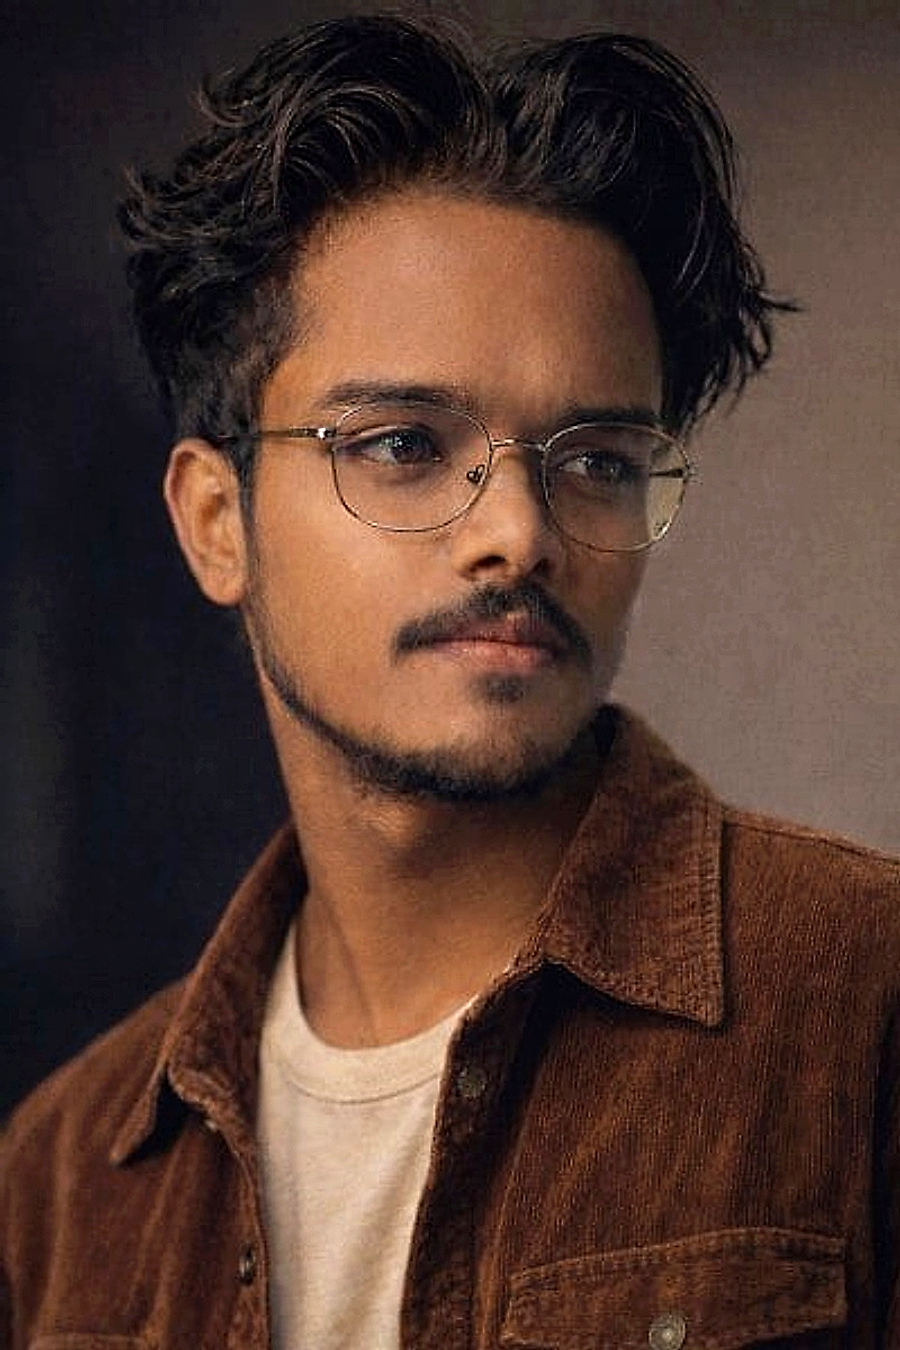
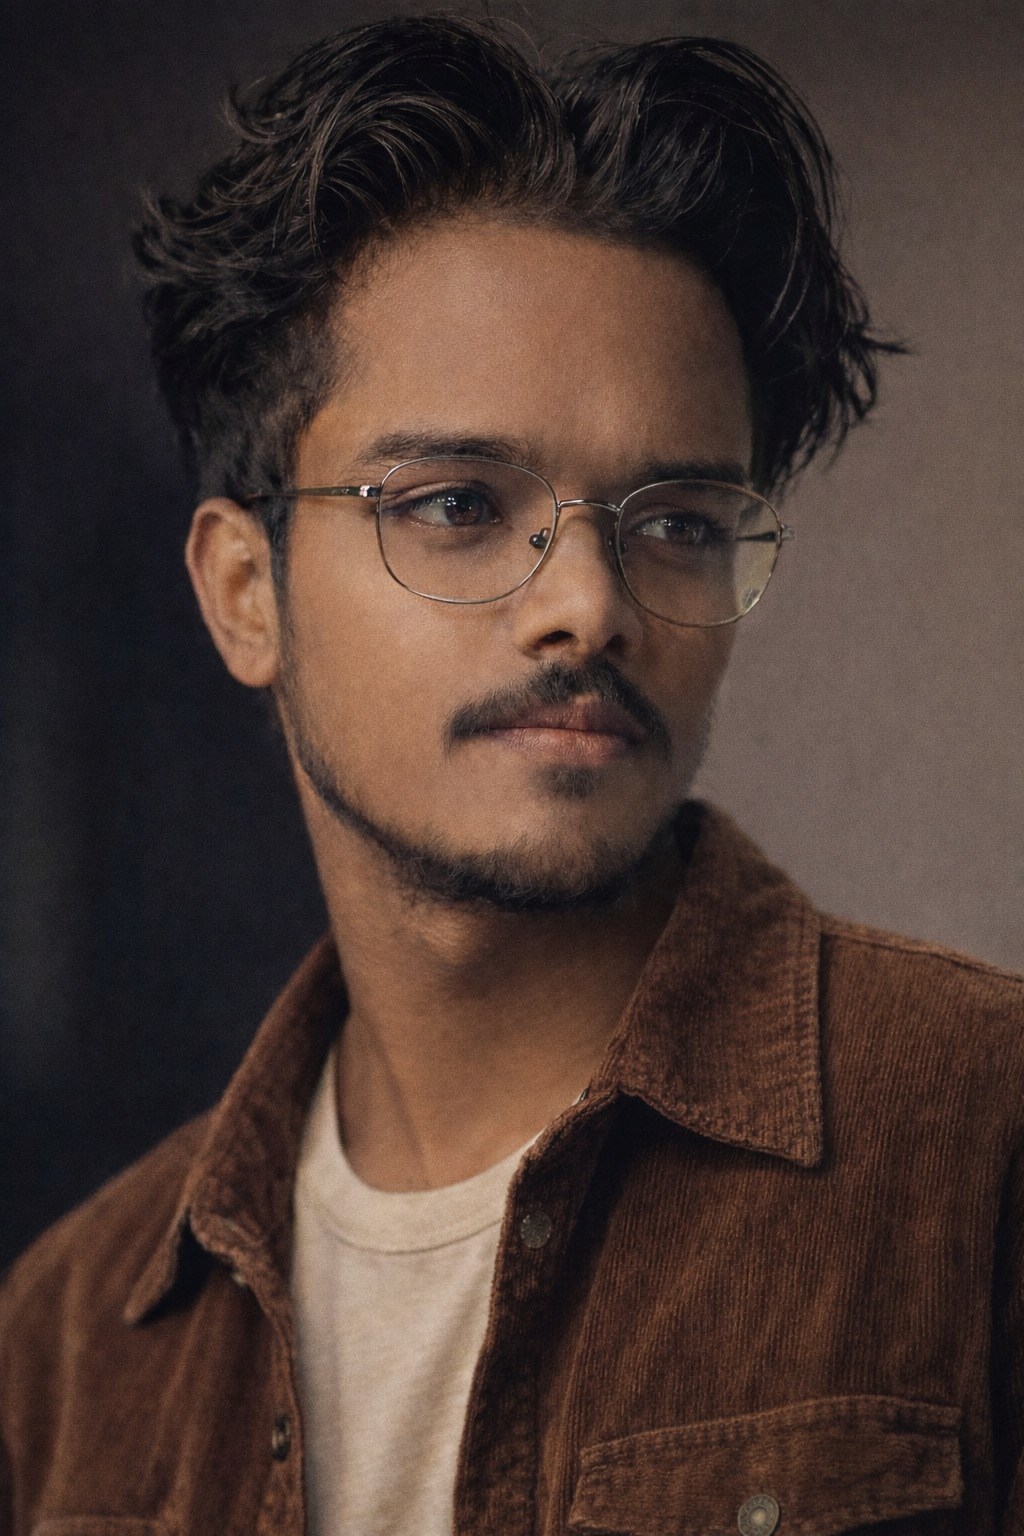
refactor: update 3D lanyard component rendering and add localized index page

diff --git a/src/components/Lanyard.jsx b/src/components/Lanyard.jsx
@@ -27,7 +27,7 @@ const CLAMP_BODY = 0.15;
 const FACE_WIDTH = 1024;
 
 const FINISHES = {
-  glossy: { roughness: 0.05, metalness: 0, clearcoat: 1.0, clearcoatRoughness: 0.03, foil: 0, anisotropy: 0 },
+  glossy: { roughness: 0.02, metalness: 0, clearcoat: 1.0, clearcoatRoughness: 0.02, foil: 0, anisotropy: 0 },
   matte: { roughness: 0.85, metalness: 0, clearcoat: 0, clearcoatRoughness: 0.6, foil: 0, anisotropy: 0 },
   holographic: { roughness: 0.3, metalness: 0, clearcoat: 1, clearcoatRoughness: 0.04, foil: 1, anisotropy: 0 },
   metallic: { roughness: 0.36, metalness: 0.75, clearcoat: 0.5, clearcoatRoughness: 0.18, foil: 0, anisotropy: 0.7 }
@@ -359,7 +359,7 @@ const buildBandGeometry = count => {
 
 const buildEnvironment = renderer => {
   const scene = new THREE.Scene();
-  scene.background = new THREE.Color(0.015, 0.015, 0.02);
+  scene.background = new THREE.Color(0, 0, 0); // Pure pitch black environment: ZERO diffuse haze or white fog on the card
   const geometry = new THREE.PlaneGeometry(1, 1);
   const materials = [];
   const panel = (intensity, position, scale, rotation = 0) => {
@@ -375,14 +375,12 @@ const buildEnvironment = renderer => {
     mesh.rotateZ(rotation);
     scene.add(mesh);
   };
-  // Angled studio strip lights: create crisp, dynamic diagonal gloss sheens as the card swings/stretches/rotates
-  panel(3.2, [-5, 3, 6], [2.2, 9], 0.35);    // Left angled gloss strip
-  panel(2.8, [5, 2.5, 6], [2.2, 9], -0.35);  // Right angled gloss strip
-  panel(3.0, [0, 6.5, 5], [10, 2.5]);        // Top overhead gloss strip
-  panel(1.2, [0, -6, 4], [10, 2.5]);         // Subtle bottom fill
-  panel(1.4, [0, 5, -6], [12, 6]);           // Backfill depth
+  // Clean studio specular strip lights: create pure, razor-sharp gloss reflections as card swings or stretches
+  panel(2.8, [-5, 3.5, 6], [1.8, 10], 0.32);   // Left angled studio strip
+  panel(2.5, [5, 3.0, 6], [1.8, 10], -0.32);  // Right angled studio strip
+  panel(2.6, [0, 6.0, 5], [10, 2.0]);         // Overhead studio softbox
   const pmrem = new THREE.PMREMGenerator(renderer);
-  const target = pmrem.fromScene(scene, 0.035);
+  const target = pmrem.fromScene(scene, 0.02);
   pmrem.dispose();
   geometry.dispose();
   materials.forEach(material => material.dispose());
@@ -502,16 +500,7 @@ const paintFace = (canvas, image, color, fit) => {
   ctx.fillStyle = toCss(color);
   ctx.fillRect(0, 0, canvas.width, canvas.height);
   if (image) {
-    const isDark = typeof document !== 'undefined' && document.documentElement.classList.contains('dark');
-    ctx.save();
-    // High-vibrancy LED screen clarity & contrast for the profile picture
-    if (isDark) {
-      ctx.filter = 'contrast(1.10) saturate(1.18) brightness(1.06)';
-    } else {
-      ctx.filter = 'contrast(1.04) saturate(1.06) brightness(1.02)';
-    }
     drawFitted(ctx, image, canvas.width, canvas.height, fit);
-    ctx.restore();
   }
 };
 
@@ -949,10 +938,10 @@ const Lanyard = ({
     const environment = buildEnvironment(renderer);
     scene.environment = environment.texture;
     const camera = new THREE.PerspectiveCamera(FOV, 1, 0.1, 200);
-    const ambientLight = new THREE.AmbientLight(0xffffff, 0.22);
-    const keyLight = new THREE.DirectionalLight(0xffffff, 2.0);
-    keyLight.position.set(-2.5, 4.5, 5);
-    const fillLight = new THREE.DirectionalLight(0xffffff, 0.7);
+    const ambientLight = new THREE.AmbientLight(0xffffff, 0.45);
+    const keyLight = new THREE.DirectionalLight(0xffffff, 1.35);
+    keyLight.position.set(-2, 4, 5);
+    const fillLight = new THREE.DirectionalLight(0xffffff, 0.55);
     fillLight.position.set(3, -1, 3);
     scene.add(ambientLight, keyLight, fillLight);
 
@@ -993,16 +982,24 @@ const Lanyard = ({
 
     const frontMaterial = new THREE.MeshPhysicalMaterial({
       map: frontTexture,
-      ior: 1.52,
-      reflectivity: 0.9,
+      roughness: 0.02,
+      metalness: 0.0,
+      clearcoat: 1.0,
+      clearcoatRoughness: 0.02,
+      ior: 1.5,
+      reflectivity: 0.5,
       polygonOffset: true,
       polygonOffsetFactor: -1.0,
       polygonOffsetUnits: -4.0
     });
     const backMaterial = new THREE.MeshPhysicalMaterial({
       map: frontTexture,
-      ior: 1.52,
-      reflectivity: 0.9,
+      roughness: 0.02,
+      metalness: 0.0,
+      clearcoat: 1.0,
+      clearcoatRoughness: 0.02,
+      ior: 1.5,
+      reflectivity: 0.5,
       polygonOffset: true,
       polygonOffsetFactor: -1.0,
       polygonOffsetUnits: -4.0
